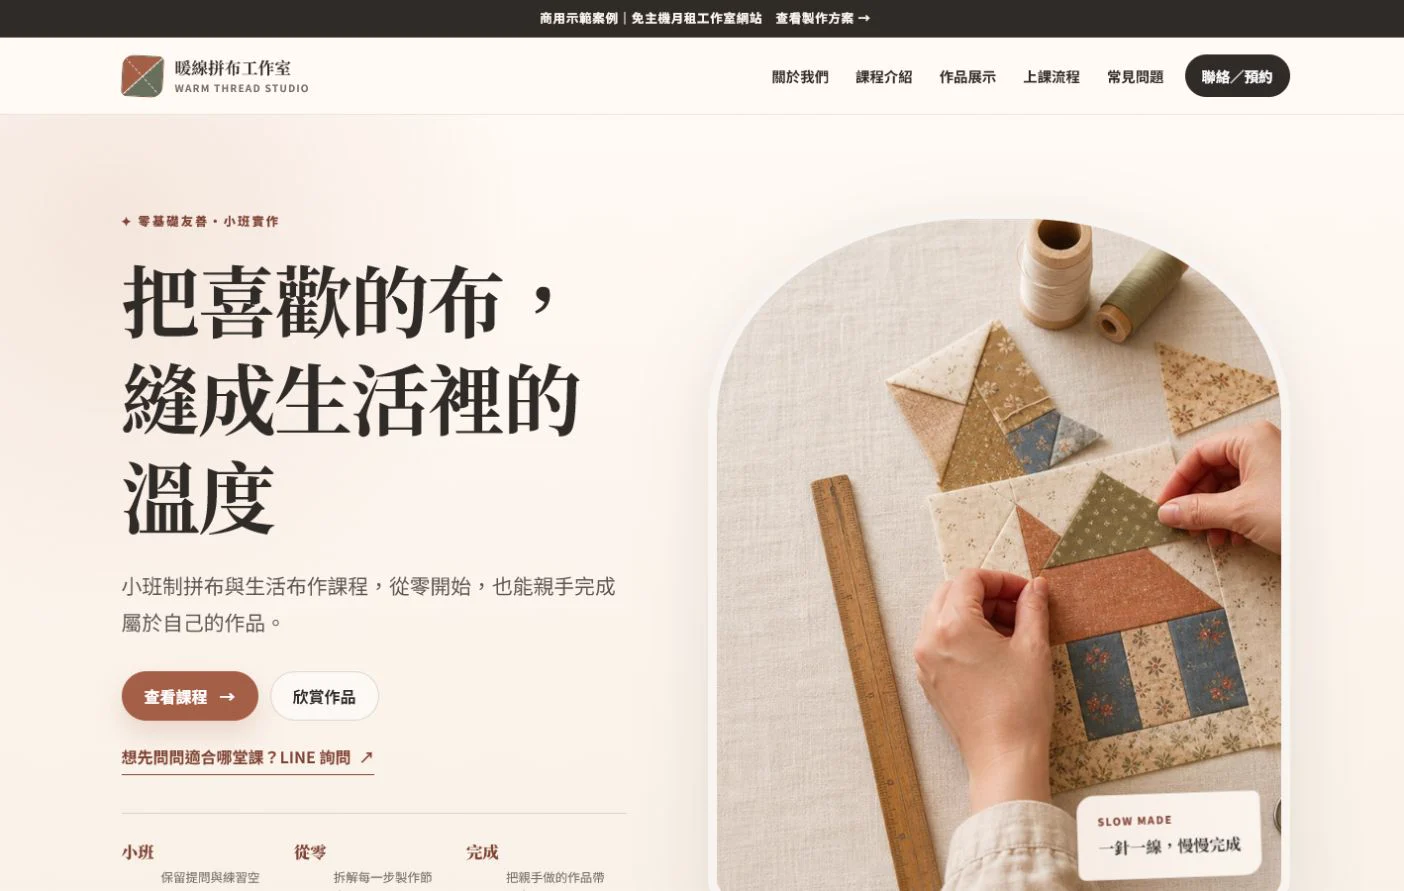
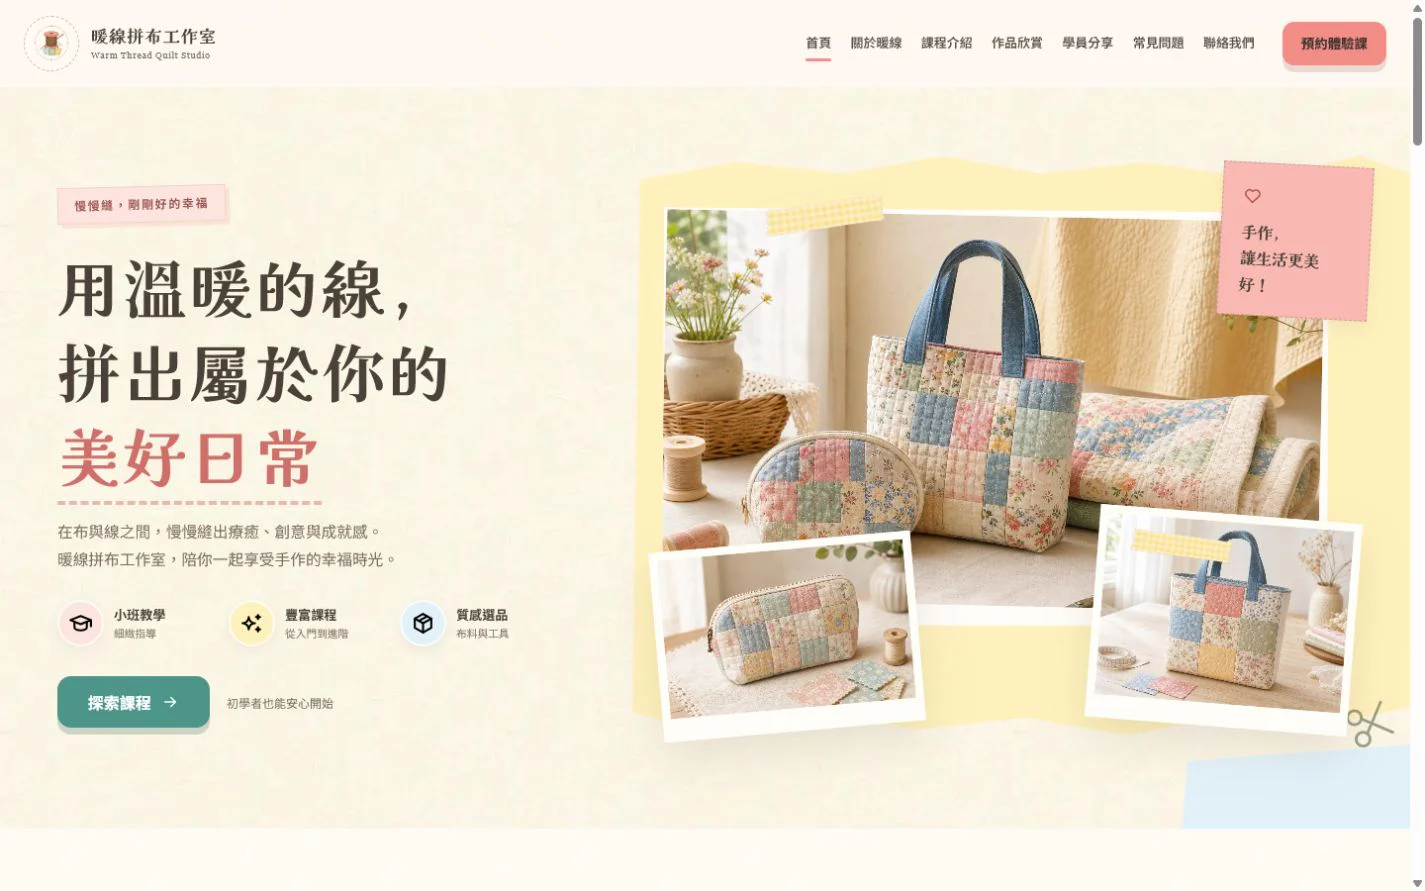
Restore StudioSite and update Warm Thread case

diff --git a/index.html b/index.html
@@ -133,13 +133,13 @@
           <div class="device-stage" aria-label="暖線拼布工作室示範網站的桌面與手機畫面">
             <div class="laptop" aria-hidden="true">
               <div class="laptop-screen">
-                <img src="assets/warm-thread-desktop.webp" alt="" width="1440" height="900" decoding="async">
+                <img src="assets/warm-thread-desktop.webp" alt="" width="1425" height="891" decoding="async">
               </div>
               <div class="laptop-base"></div>
             </div>
             <div class="phone" aria-hidden="true">
               <div class="phone-screen">
-                <img src="assets/warm-thread-mobile.webp" alt="" width="390" height="844" decoding="async">
+                <img src="assets/warm-thread-mobile.webp" alt="" width="375" height="812" decoding="async">
               </div>
             </div>
           </div>
@@ -392,19 +392,19 @@
         </div>
         <div class="case-grid">
           <article class="case-card reveal">
-            <a class="case-media" href="https://gavin1424.github.io/warm-thread-patchwork-demo/" target="_blank" rel="noopener" aria-label="查看暖線拼布工作室示範網站">
+            <a class="case-media" href="https://gavin1424.github.io/handmade-studio-demo/" target="_blank" rel="noopener" aria-label="查看暖線拼布工作室新版示範網站">
               <span class="case-desktop">
-                <img src="assets/warm-thread-desktop.webp" alt="暖線拼布工作室示範網站桌面首頁" width="1440" height="900" loading="lazy" decoding="async">
+                <img src="assets/warm-thread-desktop.webp" alt="暖線拼布工作室新版示範網站桌面首頁" width="1425" height="891" loading="lazy" decoding="async">
               </span>
               <span class="case-phone">
-                <img src="assets/warm-thread-mobile.webp" alt="暖線拼布工作室示範網站手機首頁" width="390" height="844" loading="lazy" decoding="async">
+                <img src="assets/warm-thread-mobile.webp" alt="暖線拼布工作室新版示範網站手機首頁" width="375" height="812" loading="lazy" decoding="async">
               </span>
             </a>
             <div class="case-copy">
-              <p><span>商用網站設計示範案例</span> 拼布／手作課程</p>
+              <p><span>商用網站設計示範案例</span> 拼布／手作課程新版</p>
               <h3>暖線拼布工作室</h3>
-              <p>將課程、作品、流程與預約入口整理成手機友善的一頁式品牌網站。</p>
-              <a class="text-link" href="https://gavin1424.github.io/warm-thread-patchwork-demo/" target="_blank" rel="noopener">
+              <p>以手帳拼貼、紙膠帶與柔和布料色彩，完整呈現課程、作品、流程、FAQ 與預約入口。</p>
+              <a class="text-link" href="https://gavin1424.github.io/handmade-studio-demo/" target="_blank" rel="noopener">
                 查看案例
                 <img src="assets/icons/box-arrow-up-right.svg" alt="" width="16" height="16" aria-hidden="true">
               </a>

diff --git a/README.md b/README.md
@@ -67,7 +67,7 @@
 
 ## 公開案例
 
-- 暖線拼布工作室：<https://gavin1424.github.io/warm-thread-patchwork-demo/>
+- 暖線拼布工作室：<https://gavin1424.github.io/handmade-studio-demo/>
 - 留白陶所：<https://gavin1424.github.io/liubai-pottery-studio-demo/>
 
 兩者均在案例卡中清楚標示為商用網站設計示範或概念展示，不計入真實成交客戶數。
